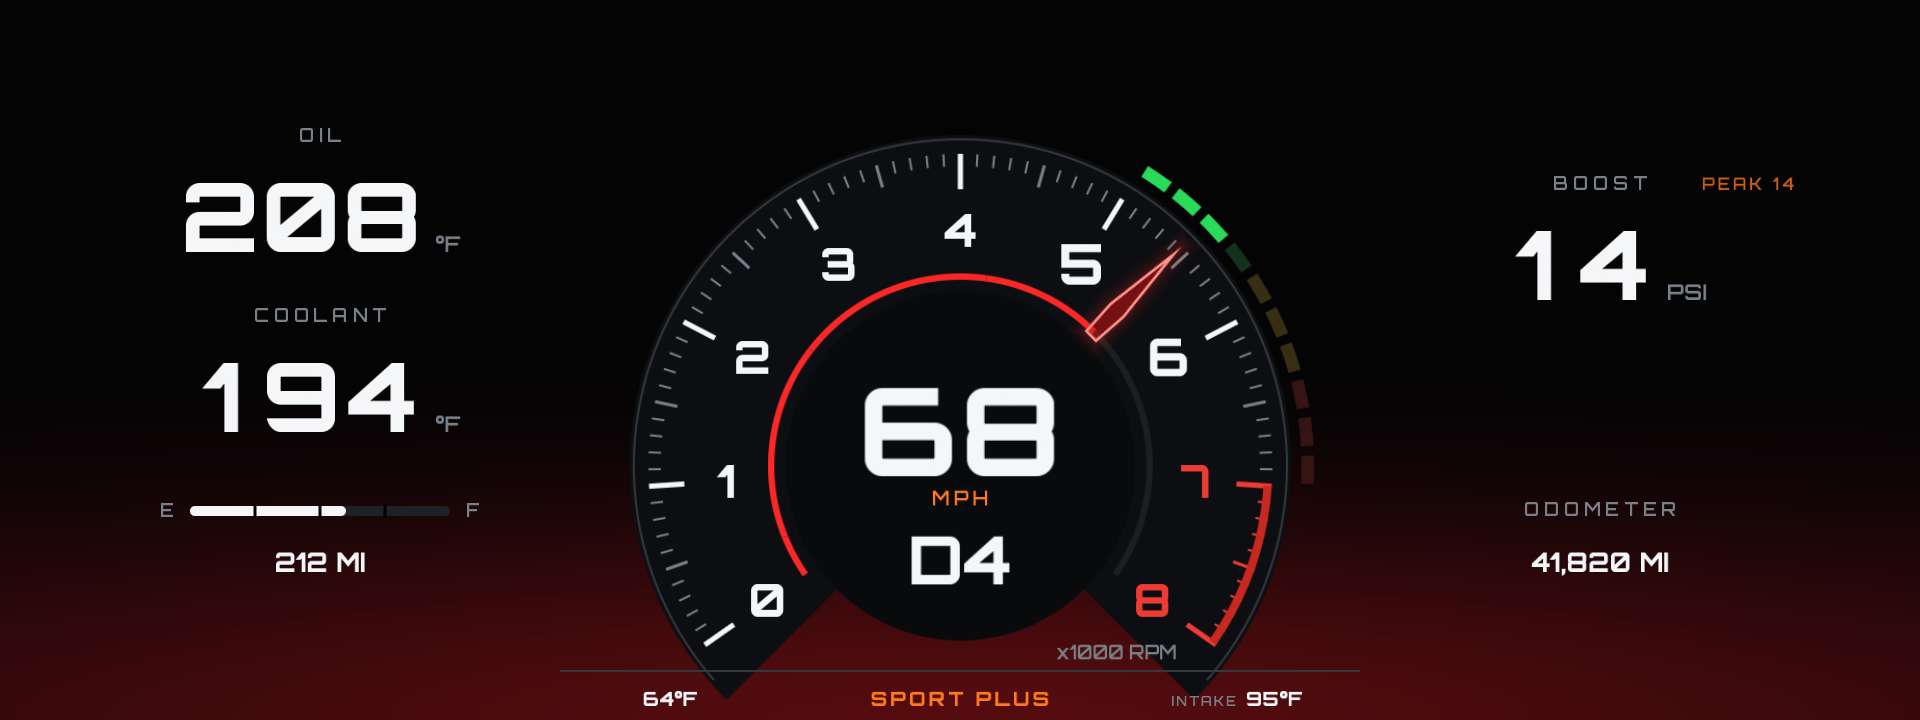
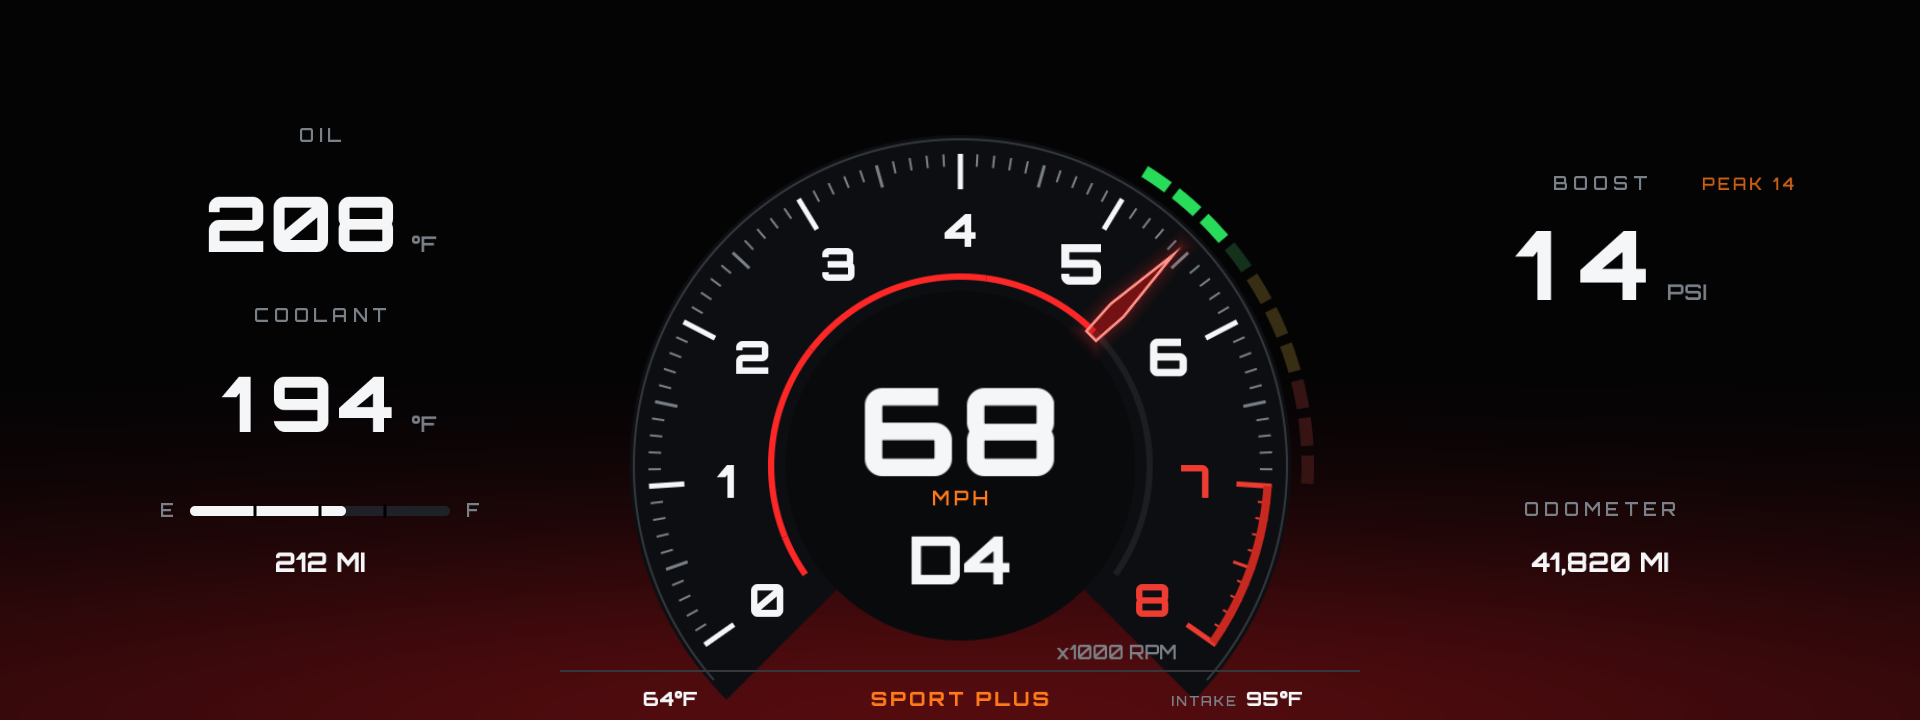
ARC Cluster 0.15.4: oil and coolant figures 20% smaller
Oil and coolant are drawn at 77 px (boost stays 96), on the same
baselines so their degree units stay level; their own 77 px glyph atlas
(4 assets now; the renderer's memory 11.7 MB). README pictures
re-rendered.

Claude-Session: https://claude.ai/code/session_014iog3VUDnUppvMdVywrbBe

Changed region(s): [[0.0938, 0.2444, 0.25, 0.3667], [0.0938, 0.4889, 0.25, 0.6111]]

diff --git a/apps/mx_classic_cluster/arc.js b/apps/mx_classic_cluster/arc.js
@@ -382,12 +382,15 @@ const ROW = { l1: 46, v1: { x: 60, y: 80, w: 420, h: 84 }, b1: 156, l2: 226, v2:
     bar: { x: 140, y: 410, w: 260 }, foot: { x: 0, y: 436, w: 540, h: 56 }, fb: 476 };
 
 /** Oil / coolant / fuel / range. v: { oil, cool (strings), oilWarn, coolWarn, tu ('°F'), fuel (0..1|null), range } */
+/* oil and coolant figures: 20 % smaller than boost's 96 (0.15.4), on the same baselines */
+const TEMP_FIG = 77;
+
 function drawLeft(p, v) {
     const X = 270;
     p.cell('lbl', { x: 0, y: 0, w: 540, h: 60 }, 'x', (cv) => LBL(cv, X, ROW.l1, 'OIL'));
-    tabular(p, 'oil', ROW.v1, X, ROW.b1, v.oil, 96, v.oilWarn ? ORANGE : WHITE, v.tu);
+    tabular(p, 'oil', ROW.v1, X, ROW.b1, v.oil, TEMP_FIG, v.oilWarn ? ORANGE : WHITE, v.tu);
     p.cell('lbl2', { x: 0, y: 196, w: 540, h: 40 }, 'x', (cv) => LBL(cv, X, ROW.l2, 'COOLANT'));
-    tabular(p, 'cool', ROW.v2, X, ROW.b2, v.cool, 96, v.coolWarn ? ORANGE : WHITE, v.tu);
+    tabular(p, 'cool', ROW.v2, X, ROW.b2, v.cool, TEMP_FIG, v.coolWarn ? ORANGE : WHITE, v.tu);
     const fb = v.fuel == null ? -1 : Math.round(Math.max(0, Math.min(1, v.fuel)) * 40);
     p.cell('bar', { x: 90, y: ROW.bar.y - 8, w: 360, h: 26 }, String(fb), (cv) => {
         const b = ROW.bar;
@@ -483,7 +486,7 @@ function bigText(cv, str, x, y, size, col) {
 
 module.exports = {
     bigText, needleSprite, gridBackground, duskBackground, background, BACKGROUNDS, BG_W, BG_H,
-    BOOST_DROP, boostRow, NOTCH_SCALE, STRIP_TOP, GEAR_WINDOW, OPEN_SCALE, LETTER_TOP, LETTER_WINDOW, stripOpen, stripShrinks, stripTop, stripCovers, DW, DH, DCX, DCY, R, NL, NUM_BOX, NEEDLE_IN, arcLayout, arcFace, numerals, numeralLevels, pasteNumeral, faceWith, arcFx,
+    BOOST_DROP, boostRow, TEMP_FIG, NOTCH_SCALE, STRIP_TOP, GEAR_WINDOW, OPEN_SCALE, LETTER_TOP, LETTER_WINDOW, stripOpen, stripShrinks, stripTop, stripCovers, DW, DH, DCX, DCY, R, NL, NUM_BOX, NEEDLE_IN, arcLayout, arcFace, numerals, numeralLevels, pasteNumeral, faceWith, arcFx,
     Panel, drawLeft, drawRight, drawStrip, drawCentre,
     CENTRE_GEAR, CENTRE_SPEED, CENTRE_SPEED_BASE, CENTRE_GEAR_BASE, CENTRE_GEAR_SIZE, R_PROG, W_PROG, R_LIGHTS, W_LIGHTS, NUM_SIZE, NUM_GROW, NUM_REACH, ROW, figW, WHITE, ORANGE, DIM, NEEDLE_RED,
 };

diff --git a/apps/mx_classic_cluster/cluster.js b/apps/mx_classic_cluster/cluster.js
@@ -397,7 +397,7 @@ class ClassicCluster {
     /** The readouts' glyph atlases (the same for every setting). */
     preAtlases(art) {
         if (art.atlases) return;
-        art.atlases = { figs96: PL.atlas('tabular', 96, A.ROW.v1.h, A.ROW.b1 - A.ROW.v1.y), figs118: PL.atlas('tabular', 118, A.CENTRE_SPEED.h, A.CENTRE_SPEED_BASE - A.CENTRE_SPEED.y),
+        art.atlases = { figs96: PL.atlas('tabular', 96, A.ROW.v1.h, A.ROW.b1 - A.ROW.v1.y), temps: PL.atlas('tabular', A.TEMP_FIG, A.ROW.v1.h, A.ROW.b1 - A.ROW.v1.y), figs118: PL.atlas('tabular', 118, A.CENTRE_SPEED.h, A.CENTRE_SPEED_BASE - A.CENTRE_SPEED.y),
             gear: PL.atlas('gear', A.CENTRE_GEAR_SIZE, A.CENTRE_GEAR.h, A.CENTRE_GEAR_BASE - A.CENTRE_GEAR.y) };
     }
 
@@ -459,7 +459,7 @@ class ClassicCluster {
         });
         this.assetRefs = assets;
         // the torque readout off (setting torqueShow): no layer for it at all
-        const FIELDS = { left: { oil: ['figs96', A.ROW.v1], cool: ['figs96', A.ROW.v2] }, right: Object.assign({ boost: ['figs96', A.boostRow(!!s.torqueShow).v] }, s.torqueShow ? { torque: ['figs96', A.ROW.v2] } : {}),
+        const FIELDS = { left: { oil: ['temps', A.ROW.v1], cool: ['temps', A.ROW.v2] }, right: Object.assign({ boost: ['figs96', A.boostRow(!!s.torqueShow).v] }, s.torqueShow ? { torque: ['figs96', A.ROW.v2] } : {}),
             centre: { speed: ['figs118', A.CENTRE_SPEED], gear: ['gear', A.CENTRE_GEAR] }, strip: {} };
         this.panels = {};
         for (const key of ['centre', 'left', 'right', 'strip']) {

diff --git a/apps/mx_classic_cluster/test.js b/apps/mx_classic_cluster/test.js
@@ -678,7 +678,7 @@ function preloadDrive(done) {
     setTimeout(() => {
         const made = sent.filter((m) => ['image', 'effect'].includes(m.op));
         assert(made.length > 8 && made.length <= 64, made.length + ' layers');
-        assert.strictEqual(sent.filter((m) => m.op === 'asset').length, 3);
+        assert.strictEqual(sent.filter((m) => m.op === 'asset').length, 4, 'atlases: 96 px, 77 px (oil, coolant), the speed, the gear');
         // within cluster-render's 16 MB with room for other apps on it: it counts every
         // picture twice (its pixels and a scratch copy), an r8 asset at a byte a pixel
         const mem = sent.filter((m) => m.op === 'image' || m.op === 'asset').reduce((a, m) => a + (m.o.iw || m.o.w) * (m.o.ih || m.o.h) * (m.o.format === 'r8' ? 1 : 4) * 2, 0);
